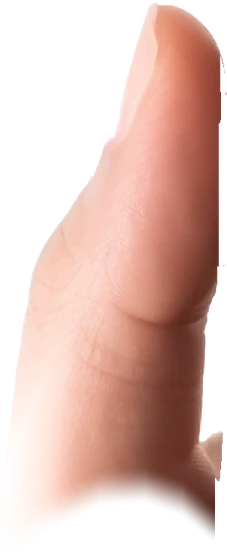
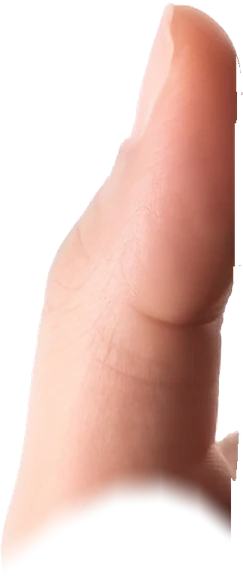
Thumb bends at its two joints; base piece rebuilt without the taper notch

diff --git a/index.html b/index.html
@@ -60,7 +60,7 @@
       <video src="video/request-flow.mp4?v=5" poster="video/request-flow.jpg?v=5" width="604" height="1312" autoplay muted playsinline preload="auto" aria-label="A short video of someone holding an iPhone and requesting an office in OfficeSwap with their thumb: they tap Request an Office, pick Tuesday and Wednesday, and get an office for both days."></video>
       <img class="hold-phone" src="images/hand/phone.webp?v=5" alt="" width="1245" height="1762">
       <img class="hold-still" src="images/hand/handhold.webp?v=14" alt="" width="1245" height="1762">
-      <canvas class="hold-hand" aria-hidden="true" data-thumb="images/hand/thumb.webp?v=4" data-palm="images/hand/palm.webp?v=4"></canvas>
+      <canvas class="hold-hand" aria-hidden="true" data-thumb="images/hand/thumb.webp?v=6" data-palm="images/hand/palm.webp?v=4"></canvas>
     </div>
     <button type="button" class="replay" hidden aria-label="Play the video again"><svg viewBox="0 0 24 24" fill="none" stroke="currentColor" stroke-width="2" stroke-linecap="round" stroke-linejoin="round" aria-hidden="true"><path d="M3.5 12a8.5 8.5 0 1 0 2.6-6.1"/><path d="M3.5 4v4.5H8"/></svg></button>
   </div>
@@ -256,7 +256,7 @@
       <video src="video/request-flow.mp4?v=5" poster="video/request-flow.jpg?v=5" width="604" height="1312" muted playsinline preload="metadata" data-play="in-view" aria-label="The same short video: someone holding an iPhone and requesting an office in OfficeSwap with their thumb: they tap Request an Office, pick Tuesday and Wednesday, and get an office for both days."></video>
       <img class="hold-phone" src="images/hand/phone.webp?v=5" alt="" width="1245" height="1762">
       <img class="hold-still" src="images/hand/handhold.webp?v=14" alt="" width="1245" height="1762">
-      <canvas class="hold-hand" aria-hidden="true" data-thumb="images/hand/thumb.webp?v=4" data-palm="images/hand/palm.webp?v=4"></canvas>
+      <canvas class="hold-hand" aria-hidden="true" data-thumb="images/hand/thumb.webp?v=6" data-palm="images/hand/palm.webp?v=4"></canvas>
     </div>
     <button type="button" class="replay" hidden aria-label="Play the video again"><svg viewBox="0 0 24 24" fill="none" stroke="currentColor" stroke-width="2" stroke-linecap="round" stroke-linejoin="round" aria-hidden="true"><path d="M3.5 12a8.5 8.5 0 1 0 2.6-6.1"/><path d="M3.5 4v4.5H8"/></svg></button>
   </div>
@@ -589,6 +589,6 @@
     document.addEventListener("click", function (e) { if (m.open && !m.contains(e.target)) m.removeAttribute("open"); });
   })();
 </script>
-<script src="hand.js?v=14" defer></script>
+<script src="hand.js?v=15" defer></script>
 </body>
 </html>

diff --git a/hand.js b/hand.js
@@ -7,7 +7,7 @@
   // ---- Photo geometry, in pixels of the 1245x1762 layers ----
   var IMG_W = 1245, IMG_H = 1762;
   var SCREEN = { tl: [406.7, 57.0], tr: [1066.1, 68.3], br: [1049.7, 1503.0], bl: [390.0, 1495.0] };
-  var THUMB_BOX = [133, 580, 360, 1133];     // where the thumb piece sits at rest
+  var THUMB_BOX = [117, 580, 360, 1157];     // where the thumb piece sits at rest
   var PIVOT = [240, 1125];               // its base knuckle, hidden under the palm
   var PAD = [331.5, 621];                    // the pad that touches the glass
 
@@ -64,8 +64,12 @@
   (function () {
     var full = REST_LEN * 1.12, w = (full - BASE) / N;
     for (var i = 0; i <= N; i++) {
-      var mid = (BASE + w * i + w / 2) / REST_LEN, f = clamp((mid - 0.08) / 0.42, 0, 1);
-      FS.push(i < N ? f * f * (3 - 2 * f) : FS[N - 1]);
+      // Two joints, like a real thumb: most of the turn at the base knuckle just above the palm,
+      // the rest at the joint near the tip; the segments between stay straight.
+      var mid = (BASE + w * i + w / 2) / REST_LEN;
+      var j1 = clamp((mid - 0.20) / 0.16, 0, 1), j2 = clamp((mid - 0.60) / 0.14, 0, 1);
+      var f = 0.62 * j1 * j1 * (3 - 2 * j1) + 0.38 * j2 * j2 * (3 - 2 * j2);
+      FS.push(i < N ? f : FS[N - 1]);
     }
   })();
   function chain(turn, len, grow, fn) {
